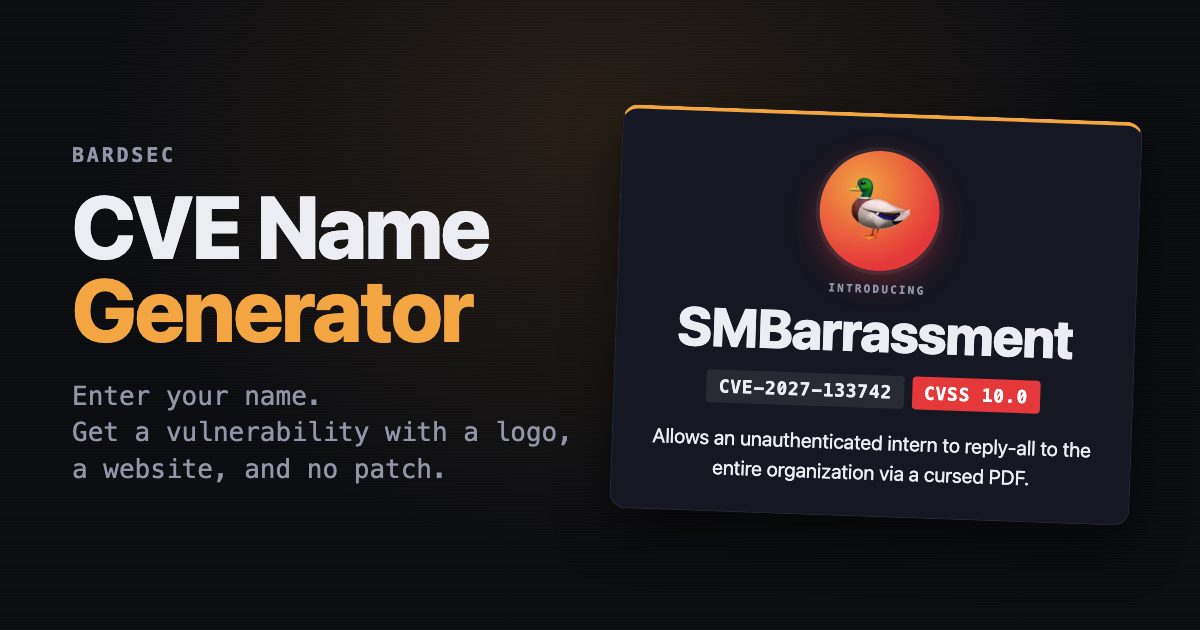
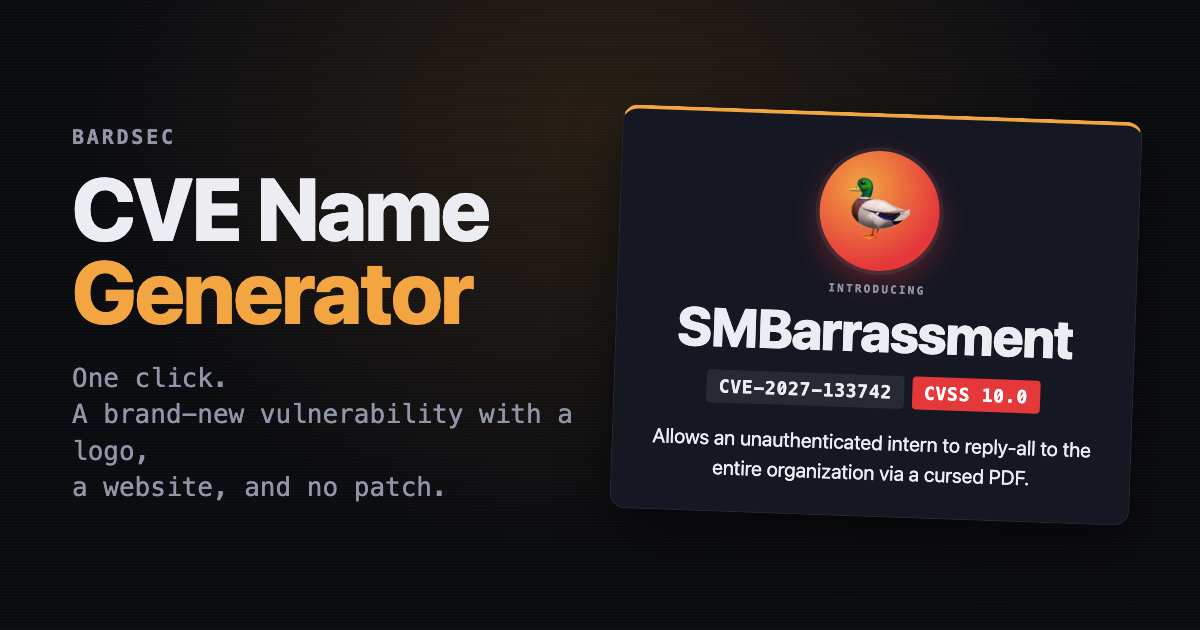
CVE generator: random-only, drop the name input
- One Generate button; each result has a shareable ?v=<base36 seed> link
- Random 'Disclosed by' researcher instead of the user's name
- Preview Function rewrites tags for ?v= links; og image copy updated

Changed region(s): [[0.0617, 0.181, 0.4317, 0.5429], [0.0617, 0.573, 0.4933, 0.7841]]

diff --git a/cvegen/public/generator.js b/cvegen/public/generator.js
@@ -1,20 +1,11 @@
 // Word lists and naming patterns for the CVE name generator.
-// Same input name always produces the same vulnerability (seeded RNG), Wu-Tang-generator style.
+// Each vuln comes from a random 32-bit seed. The seed goes in shared links (?v=<base36>),
+// so the same link always shows the same vuln, in the browser and in the preview Function.
 // Edit the lists freely — keep entries short, they get glued together.
 (() => {
   "use strict";
 
   // ---------- Seeded randomness ----------
-
-  // FNV-1a string hash → 32-bit seed
-  function hashString(s) {
-    let h = 2166136261 >>> 0;
-    for (const ch of s) {
-      h ^= ch.codePointAt(0);
-      h = Math.imul(h, 16777619);
-    }
-    return h >>> 0;
-  }
 
   // mulberry32: tiny deterministic PRNG returning floats in [0, 1)
   function mulberry32(seed) {
@@ -113,6 +104,12 @@
     "Patch available for customers on the Platinum Plus plan.",
     "Have you tried turning it off and on again?",
   ];
+  const RESEARCHERS = [
+    "an intern", "a bored teenager", "someone's AI agent", "a guy on Mastodon",
+    "the vendor's own QA team (by accident)", "a pentester who forgot the scope",
+    "a substitute teacher", "Anonymous Researcher", "a very persistent bug bounty hunter",
+    "the sysadmin, at 3 AM", "a Reddit thread", "the night custodian", "a group chat",
+  ];
   const CVSS = ["10.0", "10.0", "10.0", "9.8", "9.9", "9.8", "11.0 (vendor disputes)", "3.1 (according to the vendor)"];
   const LOGOS = ["🔥", "💀", "🐛", "🦠", "🧨", "💣", "🐍", "🦀", "🐙", "🕷", "🦂", "🧟", "👻", "🌋", "☢", "⚡", "🧀", "🦆", "🪳", "🐐", "🦝", "🪿"];
   const TLDS = [".lol", ".wtf", ".fail", ".sh", ".io", ".exposed"];
@@ -157,12 +154,19 @@
 
   // ---------- Public API ----------
 
-  // name: the person's name (string) or null for a random vuln.
-  function generate(name) {
-    const clean = (name || "").trim().replace(/\s+/g, " ");
-    const seed = clean
-      ? hashString(clean.toLowerCase())
-      : crypto.getRandomValues(new Uint32Array(1))[0];
+  const randomSeed = () => crypto.getRandomValues(new Uint32Array(1))[0];
+
+  // Shared-link code <-> seed. Returns null for anything that isn't a valid code.
+  const encodeSeed = (seed) => (seed >>> 0).toString(36);
+  function decodeSeed(code) {
+    if (typeof code !== "string" || !/^[0-9a-z]{1,7}$/.test(code)) return null;
+    const n = parseInt(code, 36);
+    return n <= 0xffffffff ? n : null;
+  }
+
+  // seed: a 32-bit integer (from decodeSeed), or omitted for a fresh random vuln.
+  function generate(seed) {
+    if (seed == null) seed = randomSeed();
     const rng = mulberry32(seed);
 
     const vulnName = makeName(rng);
@@ -171,6 +175,7 @@
     const slug = vulnName.toLowerCase().replace(/[^a-z0-9]/g, "");
 
     return {
+      code: encodeSeed(seed),
       name: vulnName,
       cve: `CVE-${year}-${number}`,
       cvss: pick(rng, CVSS),
@@ -178,9 +183,9 @@
       description: `Allows an unauthenticated ${pick(rng, ACTORS)} to ${pick(rng, IMPACTS)} via ${pick(rng, VECTORS)}.`,
       vendor: pick(rng, VENDOR_RESPONSES),
       website: slug + pick(rng, TLDS),
-      credit: clean || "Anonymous Researcher",
+      credit: pick(rng, RESEARCHERS),
     };
   }
 
-  globalThis.CVEGen = { generate };
+  globalThis.CVEGen = { generate, decodeSeed };
 })();

diff --git a/cvegen/public/index.html b/cvegen/public/index.html
@@ -4,12 +4,12 @@
   <meta charset="utf-8">
   <meta name="viewport" content="width=device-width, initial-scale=1, viewport-fit=cover">
   <title>CVE Name Generator</title>
-  <meta name="description" content="Enter your name. Get a branded vulnerability, complete with logo, website, and no patch.">
+  <meta name="description" content="One click, one brand-new vulnerability: name, logo, website, and no patch.">
   <meta name="theme-color" content="#0b0c10">
-  <!-- Link-preview tags. functions/index.js rewrites title/description/url for ?n= links. -->
+  <!-- Link-preview tags. functions/index.js rewrites title/description/url for ?v= links. -->
   <meta property="og:site_name" content="BardSec">
   <meta property="og:title" content="CVE Name Generator">
-  <meta property="og:description" content="Enter your name. Get a branded vulnerability, complete with logo, website, and no patch.">
+  <meta property="og:description" content="One click, one brand-new vulnerability: name, logo, website, and no patch.">
   <meta property="og:type" content="website">
   <meta property="og:url" content="https://cvegenerator.bardsec.com/">
   <meta property="og:image" content="https://cvegenerator.bardsec.com/og.png">
@@ -18,7 +18,7 @@
   <meta property="og:image:alt" content="CVE Name Generator: a branded vulnerability card with a logo, CVE number and CVSS 10.0">
   <meta name="twitter:card" content="summary_large_image">
   <meta name="twitter:title" content="CVE Name Generator">
-  <meta name="twitter:description" content="Enter your name. Get a branded vulnerability, complete with logo, website, and no patch.">
+  <meta name="twitter:description" content="One click, one brand-new vulnerability: name, logo, website, and no patch.">
   <meta name="twitter:image" content="https://cvegenerator.bardsec.com/og.png">
   <link rel="icon" href="favicon.svg" type="image/svg+xml">
   <link rel="stylesheet" href="styles.css">
@@ -35,14 +35,9 @@
     <h1>CVE Name <span class="accent">Generator</span></h1>
     <p class="tagline">Every great vulnerability needs a name, a logo, and a website before it needs a patch.</p>
 
-    <form id="form" class="form" autocomplete="off">
-      <label for="name" class="label">Enter your name to discover your vulnerability</label>
-      <div class="row">
-        <input id="name" name="name" type="text" maxlength="60" placeholder="Your name" spellcheck="false">
-        <button type="submit" class="btn">Disclose</button>
-      </div>
-      <button type="button" id="random" class="link-btn">or generate a random one</button>
-    </form>
+    <div class="form">
+      <button type="button" id="generate" class="btn big">Generate a vulnerability</button>
+    </div>
 
     <section id="result" class="result" hidden aria-live="polite">
       <article class="card">
@@ -71,7 +66,7 @@
   </main>
 
   <footer>
-    <p>Generated in your browser. Your name only leaves this page if you share the link.</p>
+    <p>Generated in your browser. Nothing is collected.</p>
     <p>Any resemblance to real CVEs is entirely too likely.</p>
   </footer>
 </body>

diff --git a/cvegen/public/app.js b/cvegen/public/app.js
@@ -1,16 +1,13 @@
 (() => {
   "use strict";
 
-  const form = document.getElementById("form");
-  const input = document.getElementById("name");
-  const randomBtn = document.getElementById("random");
+  const generateBtn = document.getElementById("generate");
   const result = document.getElementById("result");
   const card = result.querySelector(".card");
   const copyBtn = document.getElementById("copy");
   const linkBtn = document.getElementById("link");
 
   let current = null;
-  let currentInput = "";
 
   const $ = (id) => document.getElementById(id);
 
@@ -24,22 +21,21 @@
     $("r-site").textContent = v.website;
     $("r-vendor").textContent = v.vendor;
     $("r-credit").textContent = v.credit;
-    linkBtn.hidden = !currentInput; // random results have no stable link
 
     result.hidden = false;
+    generateBtn.textContent = "Generate another";
     // Restart the reveal animation on every generation.
     card.classList.remove("reveal");
     void card.offsetWidth;
     card.classList.add("reveal");
   }
 
-  function generateFor(name) {
-    currentInput = name;
-    render(window.CVEGen.generate(name || null));
-    // Keep the name in ?n= so a shared link reproduces the same vuln, and so the
-    // Pages Function can put it in the link-preview card (Teams, Slack, etc.).
-    const query = name ? "?n=" + encodeURIComponent(name) : "";
-    history.replaceState(null, "", location.pathname + query);
+  function show(seed) {
+    const v = window.CVEGen.generate(seed);
+    render(v);
+    // Put the seed in ?v= so the link reproduces this vuln, and so the Pages
+    // Function can put it in the link-preview card (Teams, Slack, etc.).
+    history.replaceState(null, "", location.pathname + "?v=" + v.code);
   }
 
   async function copyText(text, btn) {
@@ -53,17 +49,7 @@
     setTimeout(() => { btn.textContent = original; }, 1500);
   }
 
-  form.addEventListener("submit", (e) => {
-    e.preventDefault();
-    const name = input.value.trim();
-    if (!name) { input.focus(); return; }
-    generateFor(name);
-  });
-
-  randomBtn.addEventListener("click", () => {
-    input.value = "";
-    generateFor("");
-  });
+  generateBtn.addEventListener("click", () => show());
 
   copyBtn.addEventListener("click", () => {
     if (!current) return;
@@ -72,17 +58,14 @@
       `${v.logo} ${v.name} (${v.cve}, CVSS ${v.cvss})\n` +
       `${v.description}\n` +
       `Vendor response: ${v.vendor}\n` +
-      `Disclosed by ${v.credit} · ${location.origin}`,
+      `Disclosed by ${v.credit} · ${location.href}`,
       copyBtn
     );
   });
 
   linkBtn.addEventListener("click", () => copyText(location.href, linkBtn));
 
-  // Shared link: ?n=Name → generate on load.
-  const shared = (new URLSearchParams(location.search).get("n") || "").slice(0, 60).trim();
-  if (shared) {
-    input.value = shared;
-    generateFor(shared);
-  }
+  // Shared link: ?v=<code> → show that vuln on load.
+  const shared = window.CVEGen.decodeSeed(new URLSearchParams(location.search).get("v"));
+  if (shared != null) show(shared);
 })();

diff --git a/cvegen/functions/index.js b/cvegen/functions/index.js
@@ -1,24 +1,24 @@
 // Cloudflare Pages Function for "/".
-// For shared links like /?n=Andy, rewrite the page's link-preview tags so Teams/Slack/etc.
-// show that person's generated vulnerability. Everything else is served unchanged.
+// For shared links like /?v=k3x9a1, rewrite the page's link-preview tags so Teams/Slack/etc.
+// show that specific generated vulnerability. Everything else is served unchanged.
 import "../public/generator.js"; // sets globalThis.CVEGen (same code the browser runs)
 
 export async function onRequestGet({ request, next }) {
   const response = await next();
-  const name = (new URL(request.url).searchParams.get("n") || "").trim().slice(0, 60);
-  if (!name || !(response.headers.get("content-type") || "").includes("text/html")) {
+  const seed = globalThis.CVEGen.decodeSeed(new URL(request.url).searchParams.get("v"));
+  if (seed == null || !(response.headers.get("content-type") || "").includes("text/html")) {
     return response;
   }
 
-  const v = globalThis.CVEGen.generate(name);
-  const title = `${name}'s vulnerability: ${v.name}`;
-  const description = `${v.cve} · CVSS ${v.cvss}. ${v.description} Vendor response: ${v.vendor}`;
-  const url = `https://cvegenerator.bardsec.com/?n=${encodeURIComponent(name)}`;
+  const v = globalThis.CVEGen.generate(seed);
+  const title = `${v.logo} ${v.name} (${v.cve})`;
+  const description = `CVSS ${v.cvss}. ${v.description} Vendor response: ${v.vendor}`;
+  const url = `https://cvegenerator.bardsec.com/?v=${v.code}`;
 
-  // setAttribute/setInnerContent escape their input, so the name can't inject markup.
+  // setAttribute/setInnerContent escape their input.
   const set = (value) => ({ element: (el) => el.setAttribute("content", value) });
   const rewritten = new HTMLRewriter()
-    .on("title", { element: (el) => el.setInnerContent(`${title} | CVE Name Generator`) })
+    .on("title", { element: (el) => el.setInnerContent(`${v.name} | CVE Name Generator`) })
     .on('meta[property="og:title"]', set(title))
     .on('meta[name="twitter:title"]', set(title))
     .on('meta[property="og:description"]', set(description))
@@ -27,7 +27,7 @@ export async function onRequestGet({ request, next }) {
     .on('meta[property="og:url"]', set(url))
     .transform(response);
 
-  // Different names produce different HTML; don't let a cache serve one name's tags for another.
+  // Each code produces different HTML; don't let a cache serve one code's tags for another.
   const out = new Response(rewritten.body, rewritten);
   out.headers.set("Cache-Control", "no-store");
   return out;

diff --git a/og/cvegen.html b/og/cvegen.html
@@ -18,7 +18,7 @@
   <div>
     <p class="brand-sm">BARDSEC</p>
     <h1>CVE Name<br><span class="accent">Generator</span></h1>
-    <p class="tag">Enter your name.<br>Get a vulnerability with a logo,<br>a website, and no patch.</p>
+    <p class="tag">One click.<br>A brand-new vulnerability with a logo,<br>a website, and no patch.</p>
   </div>
   <article class="card">
     <div class="logo">🦆</div>

diff --git a/cvegen/public/styles.css b/cvegen/public/styles.css
@@ -96,6 +96,7 @@ input:focus { outline: 2px solid var(--amber); outline-offset: 1px; border-color
   cursor: pointer;
   white-space: nowrap;
 }
+.btn.big { font-size: 18px; padding: 16px 32px; border-radius: 999px; box-shadow: 0 6px 20px rgba(229, 56, 59, 0.35); }
 .btn.ghost {
   background: transparent;
   color: var(--text);

diff --git a/README.md b/README.md
@@ -3,7 +3,7 @@
 Two tongue-in-cheek static sites on Cloudflare Pages:
 
 - **wheel.bardsec.com**: a tap-to-spin wheel of real and "forecast" software vulnerabilities
-- **cvegenerator.bardsec.com**: enter your name, get a branded made-up vulnerability (name, logo, CVE ID, website, no patch). Same name, same result, like the old Wu-Tang name generator.
+- **cvegenerator.bardsec.com**: one click generates a branded made-up vulnerability (name, logo, CVE ID, CVSS, website, vendor response, no patch)
 
 ## Structure
 
@@ -27,12 +27,12 @@ Each entry in `vulns.js` has a `kind`: `real` (actual CVE), `scheduled` (e.g. Y2
 
 | File | Purpose |
 |------|---------|
-| `cvegen/public/generator.js` | **Word lists and naming patterns.** Seeded RNG, so a name always maps to the same vuln. Shared by the browser and the Function. |
+| `cvegen/public/generator.js` | **Word lists and naming patterns.** Each vuln comes from a random 32-bit seed, so a share code always reproduces the same vuln. Shared by the browser and the Function. |
 | `cvegen/public/app.js` | Form, result card, copy / copy-link |
 | `cvegen/public/index.html`, `styles.css`, `_headers`, `favicon.svg`, `og.png` | Page, styles, security headers, icon, preview image |
-| `cvegen/functions/index.js` | Pages Function: for `/?n=Name` links, rewrites the Open Graph / Twitter tags so Teams/Slack previews show that person's vulnerability |
+| `cvegen/functions/index.js` | Pages Function: for `/?v=<code>` links, rewrites the Open Graph / Twitter tags so Teams/Slack previews show that specific vulnerability |
 
-Shared links use `?n=Name` (not `#Name`) because link-preview bots never see the URL fragment.
+Shared links use `?v=<code>` (the seed in base36) rather than a `#` fragment, because link-preview bots never see the fragment.
 The generator never outputs a real vuln name (see `REAL_NAMES` in `generator.js`).
 
 ### Link-preview images (`og/`)
